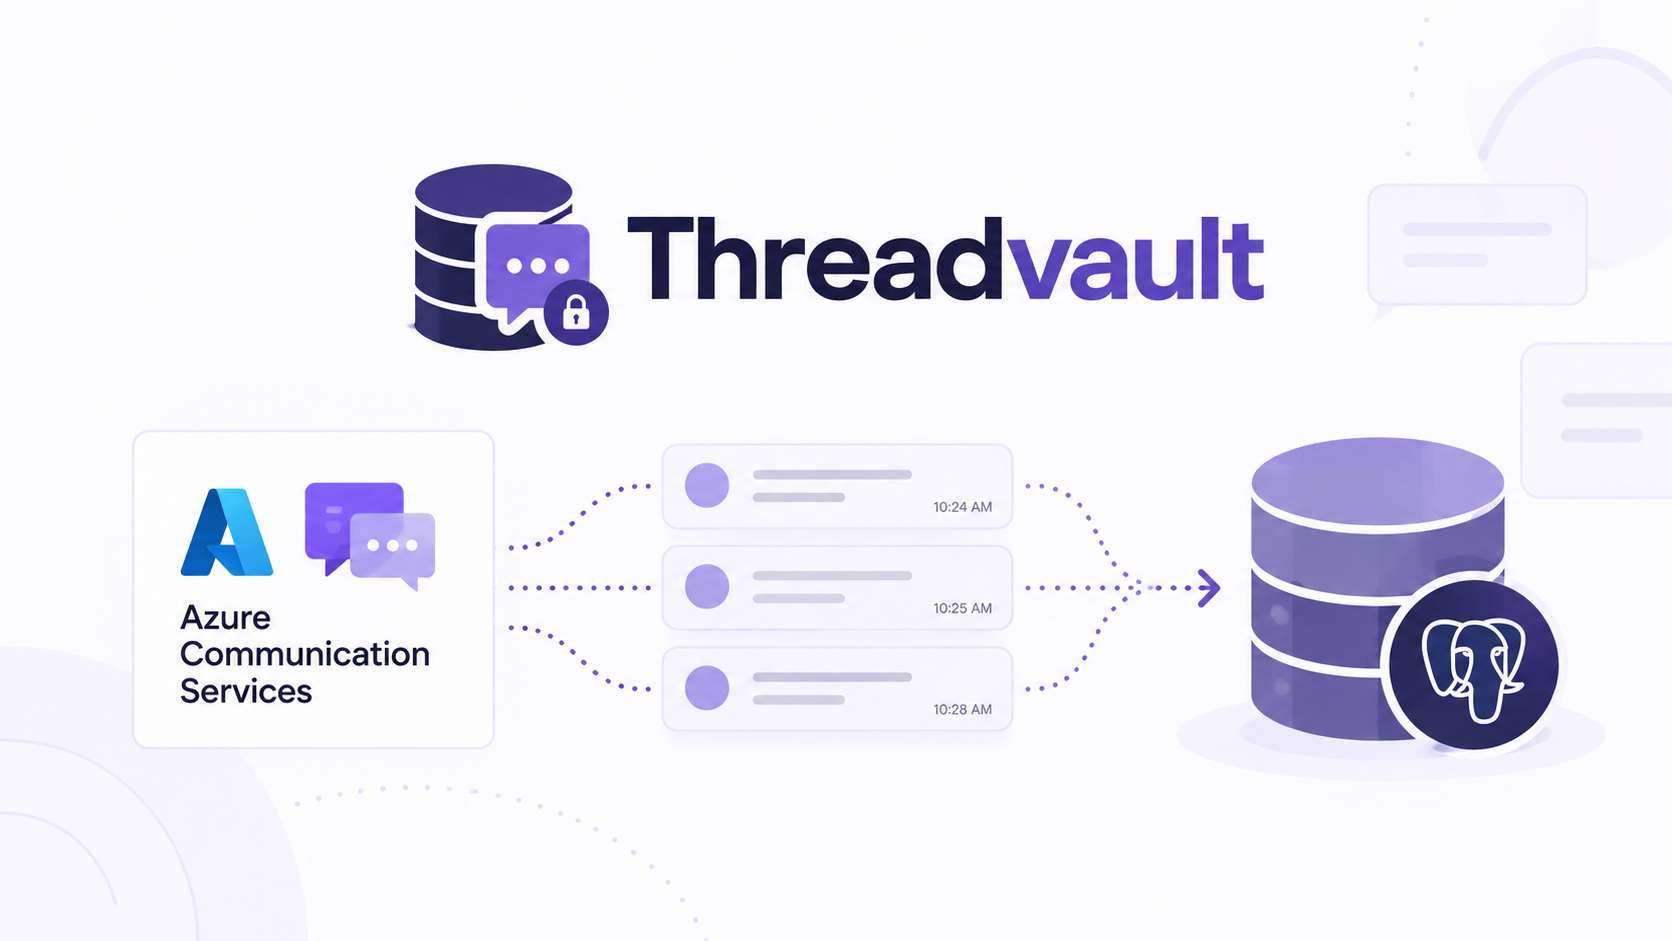
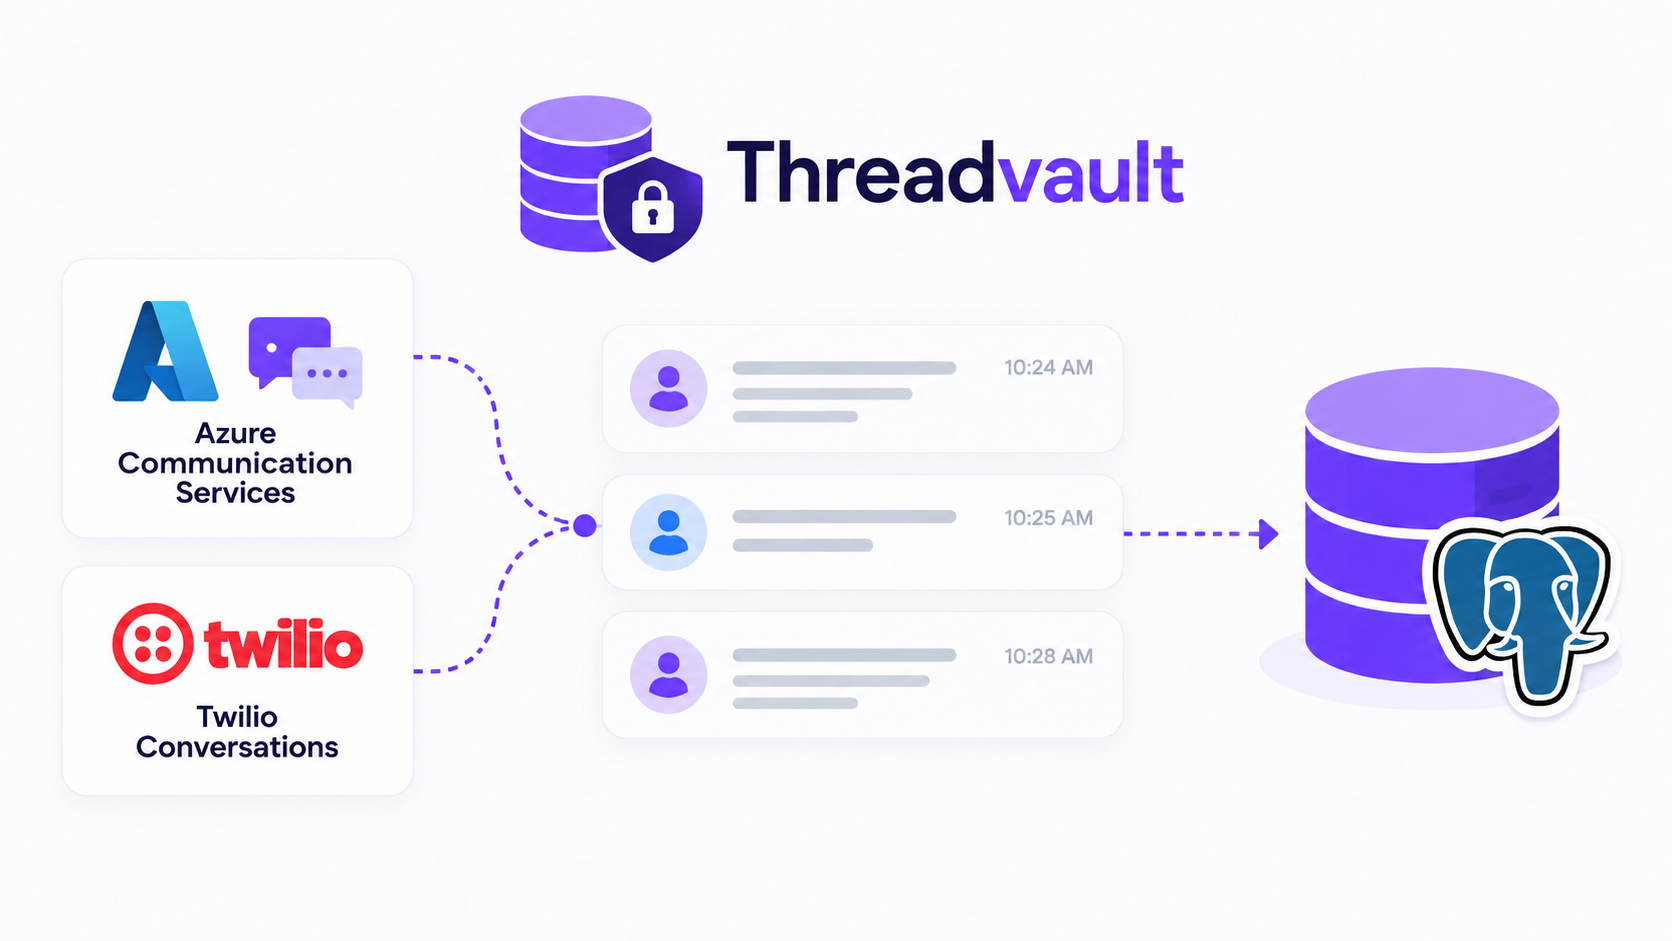
docs: the data-flow diagram shows both sources (#83)
It depicted one chat provider feeding Postgres, which stopped being the
whole picture when the Twilio reader landed and was verified.

Alt text updated with it. That is the part that was actually wrong rather
than merely incomplete: it named only Azure, so a screen reader described
a different diagram from the one on the page - the same mistake the
doctor screenshot had earlier today.

diff --git a/README.md b/README.md
@@ -24,7 +24,7 @@ Twilio lets you set a message author outright, so most of what `doctor` looks
 for cannot happen there.
 
 <p align="center">
-  <img src="https://raw.githubusercontent.com/Het101/threadvault/main/docs/assets/data-flow.png" alt="Azure Communication Services chat flowing into your own PostgreSQL database" width="760">
+  <img src="https://raw.githubusercontent.com/Het101/threadvault/main/docs/assets/data-flow.png" alt="Azure Communication Services and Twilio Conversations both flowing through Threadvault into your own PostgreSQL database" width="760">
 </p>
 
 Mirror once and ACS becomes a cache. Every message lands in **your** database under **your** user IDs, with the **original** timestamps — so the day you need a new resource, you replay instead of negotiate.
